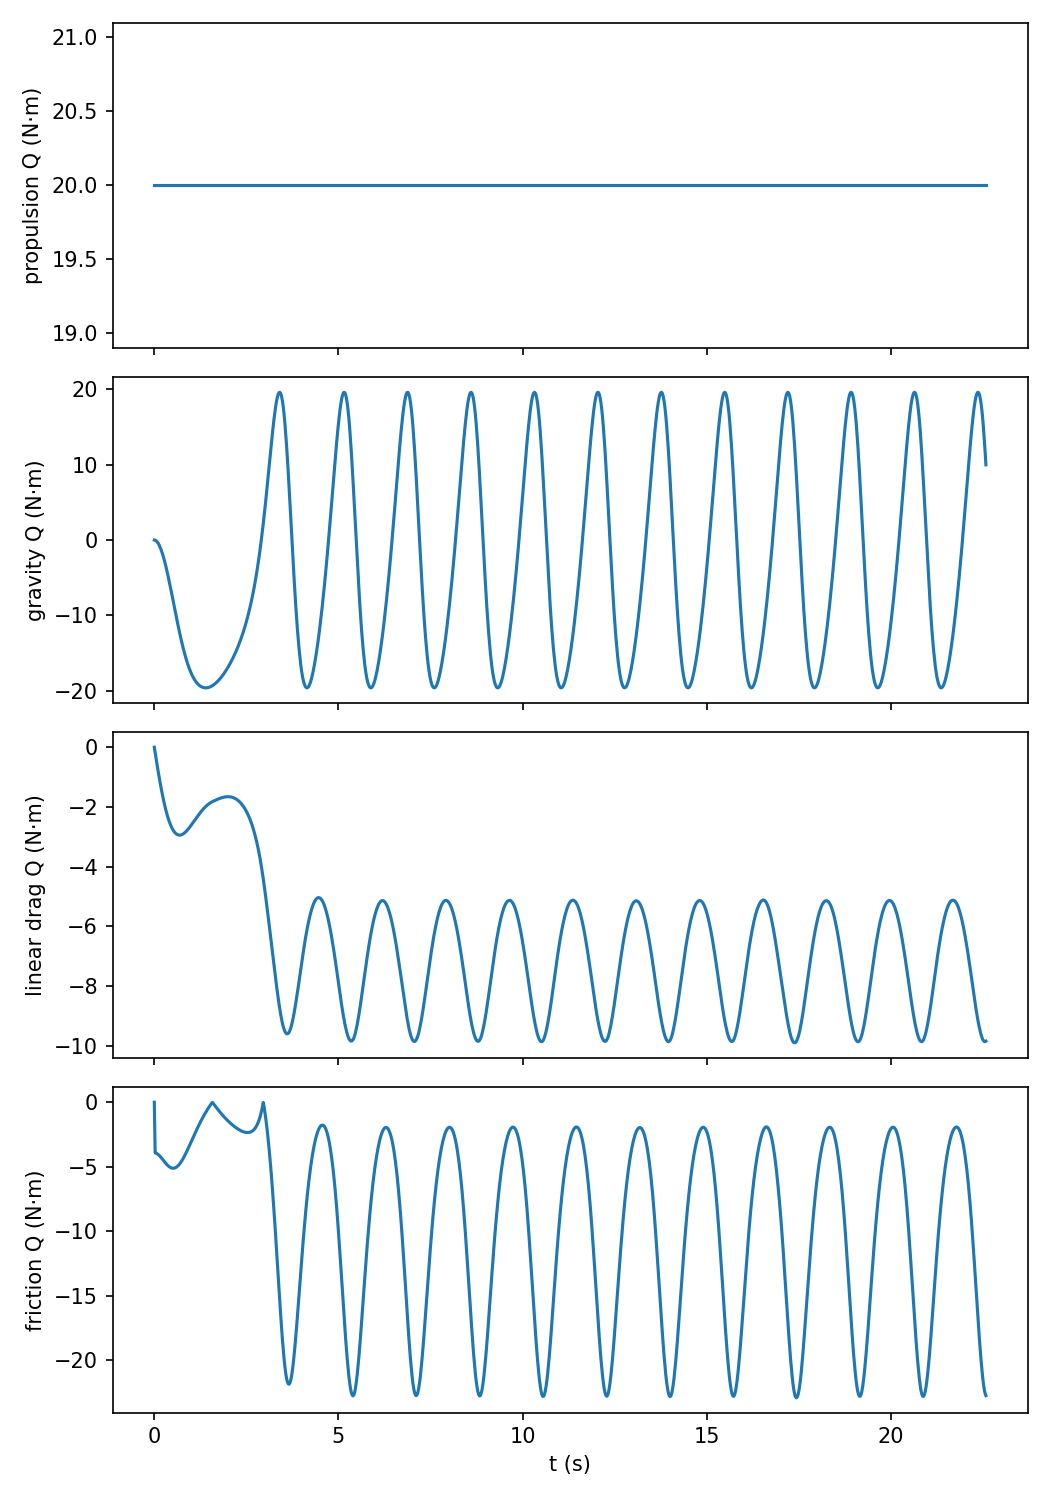
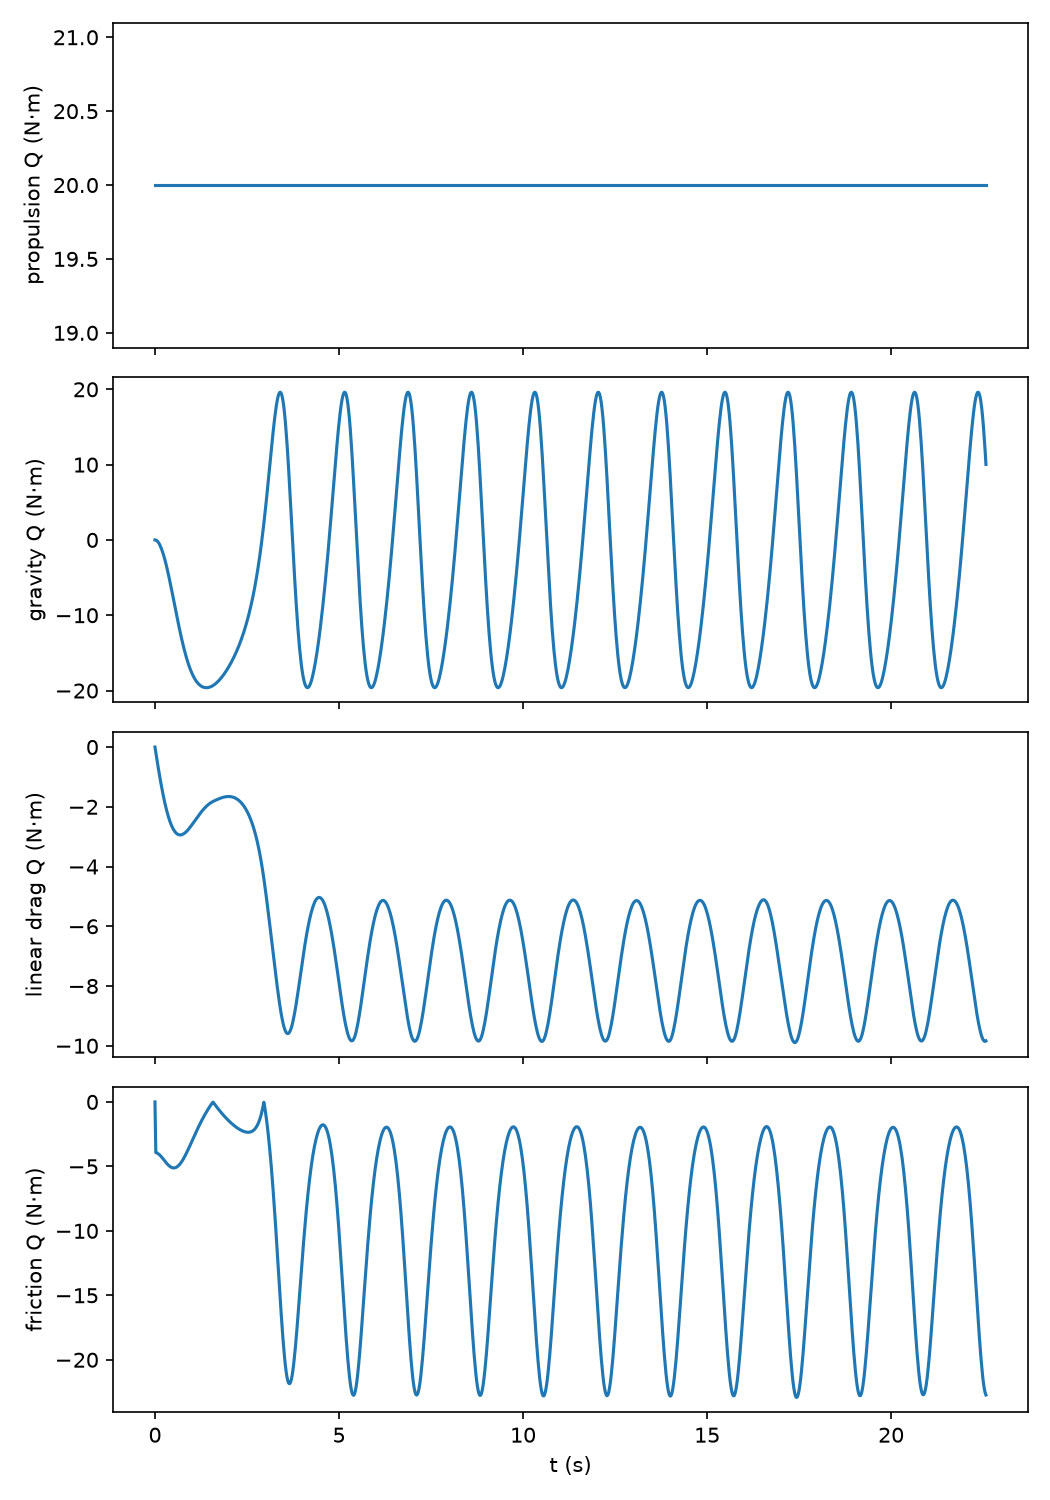
Separate default plots from the critical-force solve so importing the module no longer runs the animation.
Document the bead-on-wire model, plot both accelerations, add a first-loop grazing test, and restore the Actions badge.

diff --git a/project_1/Project_1.py b/project_1/Project_1.py
@@ -1,13 +1,18 @@
 """
-Simulate and animate a vehicle moving on a circular track (like a rollercoaster loop).
-Includes a constant force of propulsion, a resistive force that's linear with speed, and a normal-force-dependent friction force
-Calculates the critical propulsive force needed to just clear the loop without losing contact,
-and the resulting asymptotic maximum g-force.
+Simulate a bead locked to a vertical circular wire of radius R.
+
+Includes a constant propulsive force, linear drag, and friction proportional
+to |F_N|. The bead cannot leave the wire, so the constraint and the |F_N|
+friction law stay in force even if a coaster would have lost contact.
+
+Running this file animates the default parameters, then finds the critical
+propulsion at which the inward normal first hits zero on the opening loop
+(the grazing-coaster diagnostic) and reports the asymptotic peak g-force.
 """
 
+from pathlib import Path
+
 import numpy as np
-import matplotlib.pyplot as plt
-import matplotlib.animation as animation
 from scipy.integrate import solve_ivp
 from scipy.optimize import brentq
 
@@ -27,120 +32,135 @@ def dSdt(t, S, f_p=f_p):
     alpha = (f_p / (m*r) - (g/r)*np.sin(theta) - (c/m)*omega 
              - np.abs(mu*(omega**2 + (g/r)*np.cos(theta)))*np.tanh(omega/eps)) #np.tanh(omega/eps) smoothly approximates np.sign(omega)
     return [omega, alpha]
-    
-# Time array and initial conditions
-t_eval = np.linspace(0, 50*tau, 1001)
-theta0, omega0 = 0.0, 0.0
-S0 = [theta0, omega0]
 
-sol = solve_ivp(dSdt, [t_eval[0], max(t_eval)], S0, t_eval=t_eval)
-
-# 1. Make an animation of the motion
-theta, omega = sol.y
-x, y = r*np.sin(theta), -r*np.cos(theta) # Convert polar/angular coordinates to Cartesian
-
-fig, ax = plt.subplots(figsize=(5, 5))
-ax.set_xlim(-1.3*r, 1.3*r)
-ax.set_ylim(-1.3*r, 1.3*r)
-ax.set_aspect("equal")
-ax.add_patch(plt.Circle((0, 0), r, fill=False, linestyle="--", color="gray"))
-ball, = ax.plot([], [], "o", color="tab:red", markersize=10)
-
-def draw_frame(frame):
-    """Update function for the animation."""
-    ball.set_data([x[frame]], [y[frame]])
-    return ball,
-
-ani = animation.FuncAnimation(fig, draw_frame, frames=range(0, len(sol.t), 4), interval=25, blit=True)
-ani.save("circular_motion.gif", writer=animation.PillowWriter(fps=15))
-
-# 2. Make plots of position vs time, speed vs time, and acceleration vs time
-v = r*omega
-a = r*dSdt(sol.t, sol.y)[1]
-
-fig, axes = plt.subplots(3, 1, figsize=(7, 8), sharex=True)
-axes[0].plot(sol.t, x, label="x")
-axes[0].plot(sol.t, y, label="y")
-axes[0].set_ylabel("position (m)")
-axes[0].legend()
-axes[1].plot(sol.t, v)
-axes[1].set_ylabel("speed v (m/s)")
-axes[2].plot(sol.t, a)
-axes[2].set_ylabel("acceleration a (m/s^2)")
-axes[2].set_xlabel("t (s)")
-fig.tight_layout()
-fig.savefig("kinematics.png", dpi=150)
-
-# 3. Make plots of all generalized forces (separately) vs time
-# Calculate each force component acting on the system
 def normal_force(theta, omega):
-    """Calculate the normal force exerted by the track on the vehicle."""
+    """Inward normal force of the wire on the bead."""
     return m*(r*omega**2 + g*np.cos(theta))
-  
-Q = r * np.array([
-    np.full_like(sol.t, f_p), 
-    -m*g*np.sin(theta), 
-    -c*v, 
-    -mu*np.abs(normal_force(theta, omega))*np.tanh(omega/eps)
-])
-labels = ["propulsion Q (N·m)", "gravity Q (N·m)", "linear drag Q (N·m)", "friction Q (N·m)"]
-
-fig, axes = plt.subplots(4, 1, figsize=(7, 10), sharex=True)
-for ax, q, label in zip(axes, Q, labels):
-    ax.plot(sol.t, q)
-    ax.set_ylabel(label)
-axes[3].set_xlabel("t (s)")
-fig.tight_layout()
-fig.savefig("forces.png", dpi=150)
 
 # 4. Find the critical propulsive force and asymptotic g-force
-if c == 0 and mu == 0:
-    raise ValueError("no dissipation: speed grows forever, so there is no asymptotic g-force")
-
 def passed_top(t, S, f_p):
-    """triggered when the vehicle successfully makes it over the top."""
+    """triggered when the bead successfully makes it over the top."""
     return S[0] - 1.5*np.pi
 passed_top.terminal = True
 passed_top.direction = 1
 
 def stalled(t, S, f_p):
-    """triggered if the vehicle falls back or stalls."""
+    """triggered if the bead falls back or stalls."""
     return S[1] - 10*eps
 stalled.terminal = True
 stalled.direction = -1
 
 def lowest_normal_force(f_p):
     """
-    Run simulation to see if the vehicle makes the loop. 
-    Returns the minimum normal force experienced over the top half.
+    Run simulation to see if the bead makes the loop.
+    Returns the minimum inward normal force over the top half of the first loop.
     """
-    # Start at rest on the left vertical section of the track (theta = -pi/2)
-    run = solve_ivp(dSdt, [0, 1e6*tau], [-np.pi/2, 0.0], args=(f_p,), events=[passed_top, stalled],
-                    dense_output=True, rtol=1e-10, atol=1e-10)
+    # Start at rest on the left vertical section of the wire (theta = -pi/2)
+    run = solve_ivp(dSdt, [0, 100*tau], [-np.pi/2, 0.0], args=(f_p,), events=[passed_top, stalled],
+                    dense_output=True, rtol=1e-8, atol=1e-8)
     
-    # If the 'passed_top' event didn't trigger, the vehicle stalled/fell
+    # If the 'passed_top' event didn't trigger, the bead stalled/fell
     if run.t_events[0].size == 0:
         return -10.0
         
-    theta_run, omega_run = run.sol(np.linspace(0, run.t_events[0][0], 20001))
+    theta_run, omega_run = run.sol(np.linspace(0, run.t_events[0][0], 1001))
   
     # Filter for the upper portion of the loop and find the minimum normal force
     return normal_force(theta_run, omega_run)[theta_run >= np.pi/2].min()
 
-# Bracket the root by doubling f_p until the vehicle clears the loop with a positive normal force
-f_p_high = m*g
-while lowest_normal_force(f_p_high) < 0:
-    f_p_high *= 2
 
-# Find the exact f_p where the minimum normal force is exactly 0
-f_p_crit = brentq(lowest_normal_force, 0.0, f_p_high)
+def critical_propulsion_and_g_force():
+    """
+    Return (F_p,crit, g_force) for the long critical run.
 
-# Run a long simulation with the critical f_p to reach a steady state
-long_run = solve_ivp(dSdt, [0, 1000*tau], [-np.pi/2, 0.0], args=(f_p_crit,),
-                     t_eval=np.linspace(0, 1000*tau, 100001), rtol=1e-10, atol=1e-10)
+    F_p,crit is the propulsion at which min F_N over the top half of the first
+    loop is zero, starting from rest at the left vertical. g_force is F_N/(m g)
+    sampled along a 1000*tau integration at that propulsion.
+    """
+    if c == 0 and mu == 0:
+        raise ValueError("no dissipation: speed grows forever, so there is no asymptotic g-force")
 
-# Calculate g-forces for the entire run
-g_force = normal_force(*long_run.y) / (m*g)
+    # Bracket the root by doubling f_p until the bead clears the loop with a positive normal force
+    f_p_high = m*g
+    while lowest_normal_force(f_p_high) < 0:
+        f_p_high *= 2
 
-# Print the max g-force from the last sixteenth of the run (assuming transients have died out)
-print("max g-force = {:.2f} g".format(g_force[-len(g_force)//16:].max()))
+    # Find the exact f_p where the minimum normal force is exactly 0
+    f_p_crit = brentq(lowest_normal_force, 0.0, f_p_high)
+
+    # Run a long simulation with the critical f_p to reach a steady state
+    long_run = solve_ivp(dSdt, [0, 1000*tau], [-np.pi/2, 0.0], args=(f_p_crit,),
+                         dense_output=True, rtol=1e-8, atol=1e-8)
+    t_sample = np.linspace(0, 1000*tau, 100001)
+    g_force = normal_force(*long_run.sol(t_sample)) / (m*g)
+    return f_p_crit, g_force
+
+if __name__ == "__main__":
+    import matplotlib.pyplot as plt
+    import matplotlib.animation as animation
+
+    out_dir = Path(__file__).resolve().parent
+
+    # Default run: f_p = 10 N, rest at the bottom
+    t_eval = np.linspace(0, 50*tau, 1001)
+    theta0, omega0 = 0.0, 0.0
+    sol = solve_ivp(dSdt, [t_eval[0], t_eval[-1]], [theta0, omega0], t_eval=t_eval)
+    theta, omega = sol.y
+    x, y = r*np.sin(theta), -r*np.cos(theta) # Convert polar/angular coordinates to Cartesian
+
+    # 1. Make an animation of the motion
+    fig, ax = plt.subplots(figsize=(5, 5))
+    ax.set_xlim(-1.3*r, 1.3*r)
+    ax.set_ylim(-1.3*r, 1.3*r)
+    ax.set_aspect("equal")
+    ax.add_patch(plt.Circle((0, 0), r, fill=False, linestyle="--", color="gray"))
+    ball, = ax.plot([], [], "o", color="tab:red", markersize=10)
+
+    def draw_frame(frame):
+        """Update function for the animation."""
+        ball.set_data([x[frame]], [y[frame]])
+        return ball,
+
+    ani = animation.FuncAnimation(fig, draw_frame, frames=range(0, len(sol.t), 4), interval=25, blit=True)
+    ani.save(out_dir / "circular_motion.gif", writer=animation.PillowWriter(fps=15))
+
+    # 2. Make plots of position vs time, speed vs time, and acceleration vs time
+    v = r*omega
+    a_t = r*dSdt(sol.t, sol.y)[1]
+    a_n = r*omega**2
+
+    fig, axes = plt.subplots(3, 1, figsize=(7, 8), sharex=True)
+    axes[0].plot(sol.t, x, label="x")
+    axes[0].plot(sol.t, y, label="y")
+    axes[0].set_ylabel("position (m)")
+    axes[0].legend()
+    axes[1].plot(sol.t, v)
+    axes[1].set_ylabel("speed v (m/s)")
+    axes[2].plot(sol.t, a_t, label="tangential")
+    axes[2].plot(sol.t, a_n, label="centripetal")
+    axes[2].set_ylabel("acceleration (m/s^2)")
+    axes[2].legend()
+    axes[2].set_xlabel("t (s)")
+    fig.tight_layout()
+    fig.savefig(out_dir / "kinematics.png", dpi=150)
+
+    # 3. Make plots of all generalized forces (separately) vs time
+    Q = r * np.array([
+        np.full_like(sol.t, f_p),
+        -m*g*np.sin(theta),
+        -c*v,
+        -mu*np.abs(normal_force(theta, omega))*np.tanh(omega/eps)
+    ])
+    labels = ["propulsion Q (N·m)", "gravity Q (N·m)", "linear drag Q (N·m)", "friction Q (N·m)"]
+
+    fig, axes = plt.subplots(4, 1, figsize=(7, 10), sharex=True)
+    for ax, q, label in zip(axes, Q, labels):
+        ax.plot(sol.t, q)
+        ax.set_ylabel(label)
+    axes[3].set_xlabel("t (s)")
+    fig.tight_layout()
+    fig.savefig(out_dir / "forces.png", dpi=150)
+
+    # 4. Critical propulsion and asymptotic g-force
+    _, g_force = critical_propulsion_and_g_force()
+    print("max g-force = {:.2f} g".format(g_force[-len(g_force)//16:].max()))

diff --git a/project_1/test_1.py b/project_1/test_1.py
@@ -1,4 +1,5 @@
 import numpy as np
+import pytest
 from scipy.integrate import solve_ivp, cumulative_trapezoid
 
 import Project_1 as cm
@@ -13,8 +14,8 @@ def test_normal_force_zero_at_top_at_minimum_speed():
   
 def test_work_energy_with_all_forces():
     # Change in energy must equal the work done by propulsion, drag, and friction.
-    t = np.linspace(0, 50*cm.tau, 50001)
-    sol = solve_ivp(cm.dSdt, [0, t[-1]], [0.0, 0.0], t_eval=t, rtol=1e-10, atol=1e-10)
+    t = np.linspace(0, 50*cm.tau, 5001)
+    sol = solve_ivp(cm.dSdt, [0, t[-1]], [0.0, 0.0], t_eval=t, rtol=1e-8, atol=1e-8)
     theta, omega = sol.y
     v = cm.r*omega
     friction = cm.mu*np.abs(cm.normal_force(theta, omega))*np.tanh(omega/cm.eps)
@@ -23,9 +24,21 @@ def test_work_energy_with_all_forces():
     dE = energy(theta, omega) - energy(theta[0], omega[0])
     assert np.max(np.abs(dE - work)) < 1e-5*np.max(np.abs(work))
 
-def test_asymptotic_g_force_has_converged():
+@pytest.fixture(scope="module")
+def critical_case():
+    return cm.critical_propulsion_and_g_force()
+
+def test_asymptotic_g_force_has_converged(critical_case):
     # Once speed stops growing lap to lap, two back-to-back windows reach the same peak g-force.
-    n = len(cm.g_force)
-    earlier = cm.g_force[-2*n//16:-n//16].max()
-    later = cm.g_force[-n//16:].max()
+    _, g_force = critical_case
+    n = len(g_force)
+    earlier = g_force[-2*n//16:-n//16].max()
+    later = g_force[-n//16:].max()
     assert abs(later - earlier) < 1e-4*later
+
+def test_first_loop_normal_force_nonnegative_at_critical(critical_case):
+    # F_p,crit is first-loop grazing: min F_N on the top half is zero, not negative.
+    f_p_crit, _ = critical_case
+    n_min = cm.lowest_normal_force(f_p_crit)
+    assert n_min >= -1e-8
+    assert abs(n_min) < 1e-8

diff --git a/README.md b/README.md
@@ -1,9 +1,10 @@
 # Analytical_Mechanics_Numerical_Methods_Projects
+![tests](https://github.com/arredondojullianjoseph/Analytical_Mechanics_Numerical_Methods_Projects/actions/workflows/tests.yml/badge.svg)
 ## Project 1: Vertical Loop Motion Solver
 
-Solves the motion of an object locked to a vertical circular track of radius $R$ with a constant propulsive force, linear drag, and friction proportional to the normal force. The script animates the motion, plots position, speed, acceleration, and the generalized forces against time, and finds the largest g-force the object reaches once its speed stops growing loop to loop.
+Solves the motion of a bead locked to a vertical circular wire of radius $R$ with a constant propulsive force, linear drag, and friction proportional to $|F_N|$. The bead cannot leave the wire. The script animates the default parameters, plots position, speed, acceleration, and the generalized forces against time, then finds the largest g-force the bead reaches once its speed stops growing loop to loop in the critical case.
 
-![Object on the vertical loop](project_1/circular_motion.gif)
+![Bead on the vertical loop](project_1/circular_motion.gif)
 
 ### Mathematical model
 
@@ -21,7 +22,7 @@ $$F_N = m\left(R\dot{\theta}^2 + g\cos\theta\right)$$
 
 $$\ddot{\theta} = \frac{F_p}{mR} - \frac{g}{R}\sin\theta - \frac{c}{m}\dot{\theta} - \mu\left|\dot{\theta}^2 + \frac{g}{R}\cos\theta\right| \mathrm{sgn}(\dot{\theta})$$
 
-Generalized forces are the tangential forces times $R$ (N·m).
+$F_N$ is the inward normal. Friction uses $|F_N|$ because the bead stays on the wire even if $F_N$ would change sign; a coaster would have left the track at $F_N = 0$. Generalized forces are the tangential forces times $R$ (N·m).
 
 g-force is $F_N/(mg)$.
 
@@ -29,14 +30,15 @@ g-force is $F_N/(mg)$.
 
 - **Solver:** `solve_ivp` integrates $[\dot{\theta}, \ddot{\theta}]$. $\mathrm{sgn}(\dot{\theta})$ is smoothed to $\tanh(\dot{\theta}/\epsilon)$ so the solver doesn't stall each time $\dot{\theta}$ crosses zero.
 - **Time scale:** time windows are in units of $\tau = \sqrt{R/g}$, so that they can work for any loop size.
-- **Critical force:** the object starts from rest at the left vertical section ($\theta = -\pi/2$). `brentq` finds the $F_p$ where the smallest $F_N$ over the top half of the first loop is exactly zero.
-- **Events:** each first-loop run stops when the object clears the top half or stalls.
+- **Critical force:** the bead starts from rest at the left vertical section ($\theta = -\pi/2$). `brentq` finds the $F_p$ where the smallest $F_N$ over the top half of the first loop is exactly zero (the grazing-coaster diagnostic).
+- **Events:** each first-loop run stops when the bead clears the top half or stalls.
 - **Asymptotic g-force:** the critical case runs for $1000\tau$, and the max of $F_N/(mg)$ is taken over the last sixteenth.
+- **Figures:** GIF and plots use the default parameters ($F_p = 10$ N, rest at the bottom). The critical-force search runs after that.
 - **Automated tests:** `project_1/test_1.py` checks the model against physics that can be worked out by hand, using pytest.
 
 ### Results
 
-Defaults: $m = 1$ kg, $R = 2$ m, $g = 9.81$ m/s², $c = 0.5$ kg/s, $\mu = 0.2$, $F_p = 10$ N. $F_p$ applies to the animated run only. 
+Defaults: $m = 1$ kg, $R = 2$ m, $g = 9.81$ m/s², $c = 0.5$ kg/s, $\mu = 0.2$, $F_p = 10$ N. $F_p$ applies to the animated run. The reported g-force is the critical case. 
 
 | Quantity | Value |
 | --- | --- |
@@ -44,7 +46,7 @@ Defaults: $m = 1$ kg, $R = 2$ m, $g = 9.81$ m/s², $c = 0.5$ kg/s, $\mu = 0.2$, 
 
 #### Kinematics
 
-Position ($x$ and $y$), speed, and tangential acceleration for the animated run ($F_p = 10$ N, starting from rest at the bottom).
+Position ($x$ and $y$), speed, and acceleration (tangential $R\ddot{\theta}$ and centripetal $R\dot{\theta}^2$) for the default run ($F_p = 10$ N, starting from rest at the bottom).
 
 ![Position, speed, and acceleration vs time](project_1/kinematics.png)
 
@@ -56,31 +58,32 @@ Propulsion, gravity, linear drag, and friction, each as a generalized force $Q_\
 
 ### Verification
 
-`project_1/test_1.py` runs three checks:
+`project_1/test_1.py` runs four checks:
 
 | Test | Checks |
 | --- | --- |
 | Normal force at the top | $F_N = 0$ when $R\dot{\theta}^2 = g$ at $\theta = \pi$. |
 | Work-energy | The change in mechanical energy equals the work done by propulsion, drag, and friction, to 1 part in $10^5$ |
 | Asymptotic convergence | The peak g-force in the last sixteenth of the run matches the peak in the sixteenth before it, so speed has stopped growing loop to loop |
+| First-loop grazing | At $F_{p,\mathrm{crit}}$, the smallest $F_N$ on the top half of the first loop is zero and not negative |
 
 ### Limitations
 
-- The object is a point mass locked to the track.
+- The object is a point mass locked to the wire. $F_N < 0$ is allowed by the constraint; it is only used as a diagnostic when finding $F_{p,\mathrm{crit}}$.
 - Friction has no static component.
 - With $c = 0$ and $\mu = 0$ there is no asymptotic state, and the script raises an error.
-- The animated run uses $F_p = 10$ N. A larger $m$, $g$, $\mu$, or $R$ would need a larger $F_p$ to loop.
+- A larger $m$, $g$, $\mu$, or $R$ would need a larger $F_p$ to loop.
 
 ### Usage
 
-Requires `numpy`, `scipy`, `matplotlib`, and `pytest`.
+Requires `numpy`, `scipy`, `matplotlib`, `pillow`, and `pytest`.
 
 ```bash
 cd project_1
 python Project_1.py
 ```
 
-Prints `max g-force` and saves `circular_motion.gif`, `kinematics.png`, and `forces.png` in `project_1/`.
+Prints `max g-force` for the critical case and saves `circular_motion.gif`, `kinematics.png`, and `forces.png` from the default run in `project_1/`.
 
 ### Running tests
 
